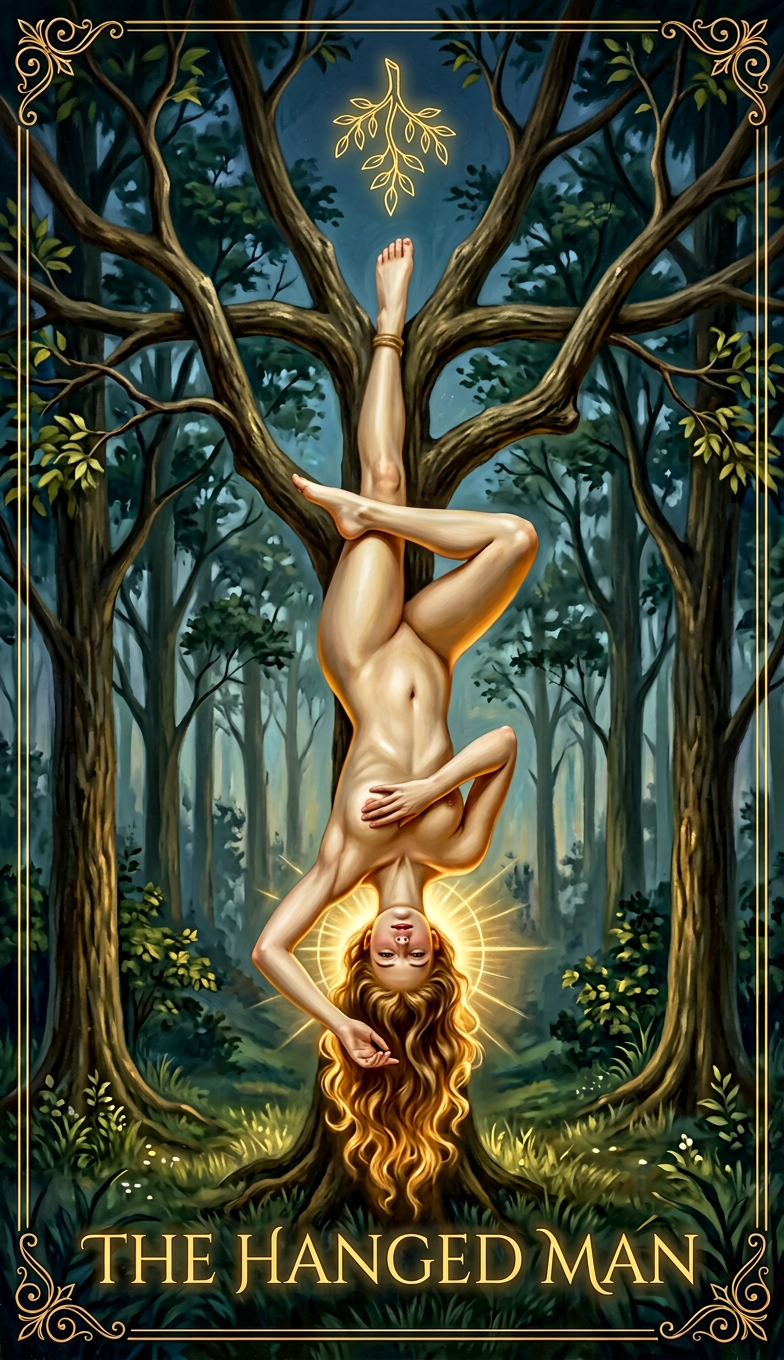
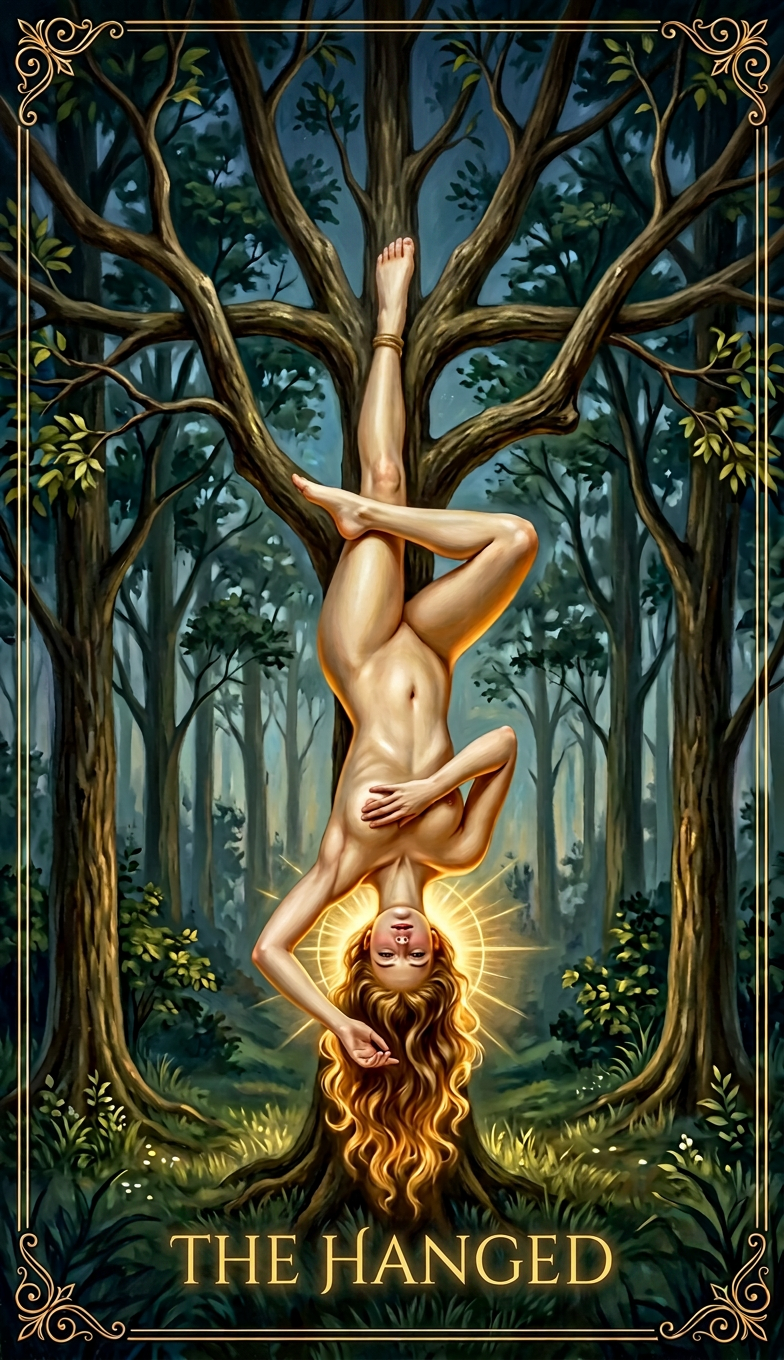
Rename and regenerate The Hanged card

Changed region(s): [[0.0918, 0.8956, 0.9184, 0.9574], [0.3673, 0.0, 0.6122, 0.2471], [0.6122, 0.0309, 0.6429, 0.0618]]

diff --git a/cards/index.html b/cards/index.html
@@ -170,9 +170,9 @@
             </div>
         </div>
         <div class="card-item">
-            <img src="12-hanged.png" alt="THE HANGED MAN">
+            <img src="12-hanged.png" alt="THE HANGED">
             <div class="card-details">
-                <div class="card-title">THE HANGED MAN</div>
+                <div class="card-title">THE HANGED</div>
                 <div class="card-meta"><strong>Độ tuổi:</strong> 21 years old &bull; <strong>Huy hiệu:</strong> an inverted living branch</div>
                 <div class="card-scene">a serene nude 21-year-old young woman suspended upside-down by one ankle from a living tree shaped like a cross, one leg bent gracefully, a radiant halo of golden light glowing around her head</div>
             </div>
